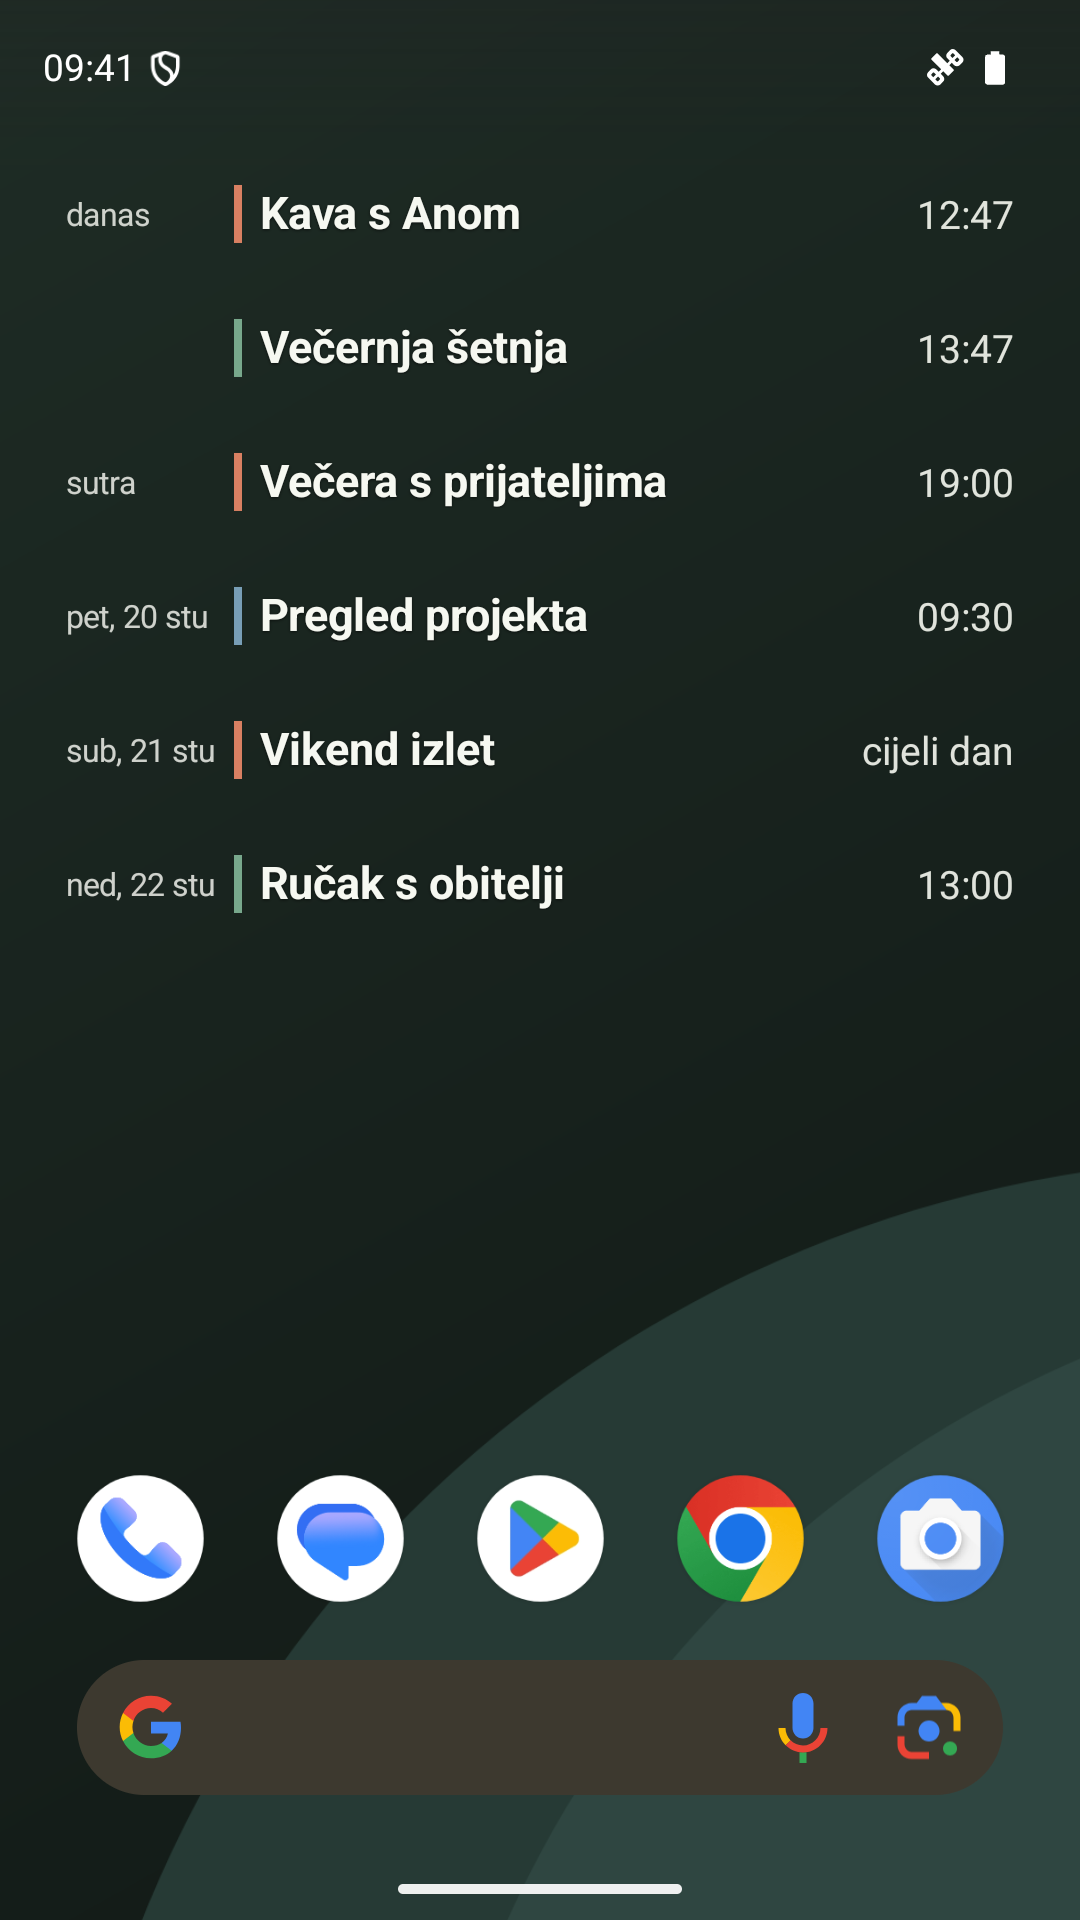
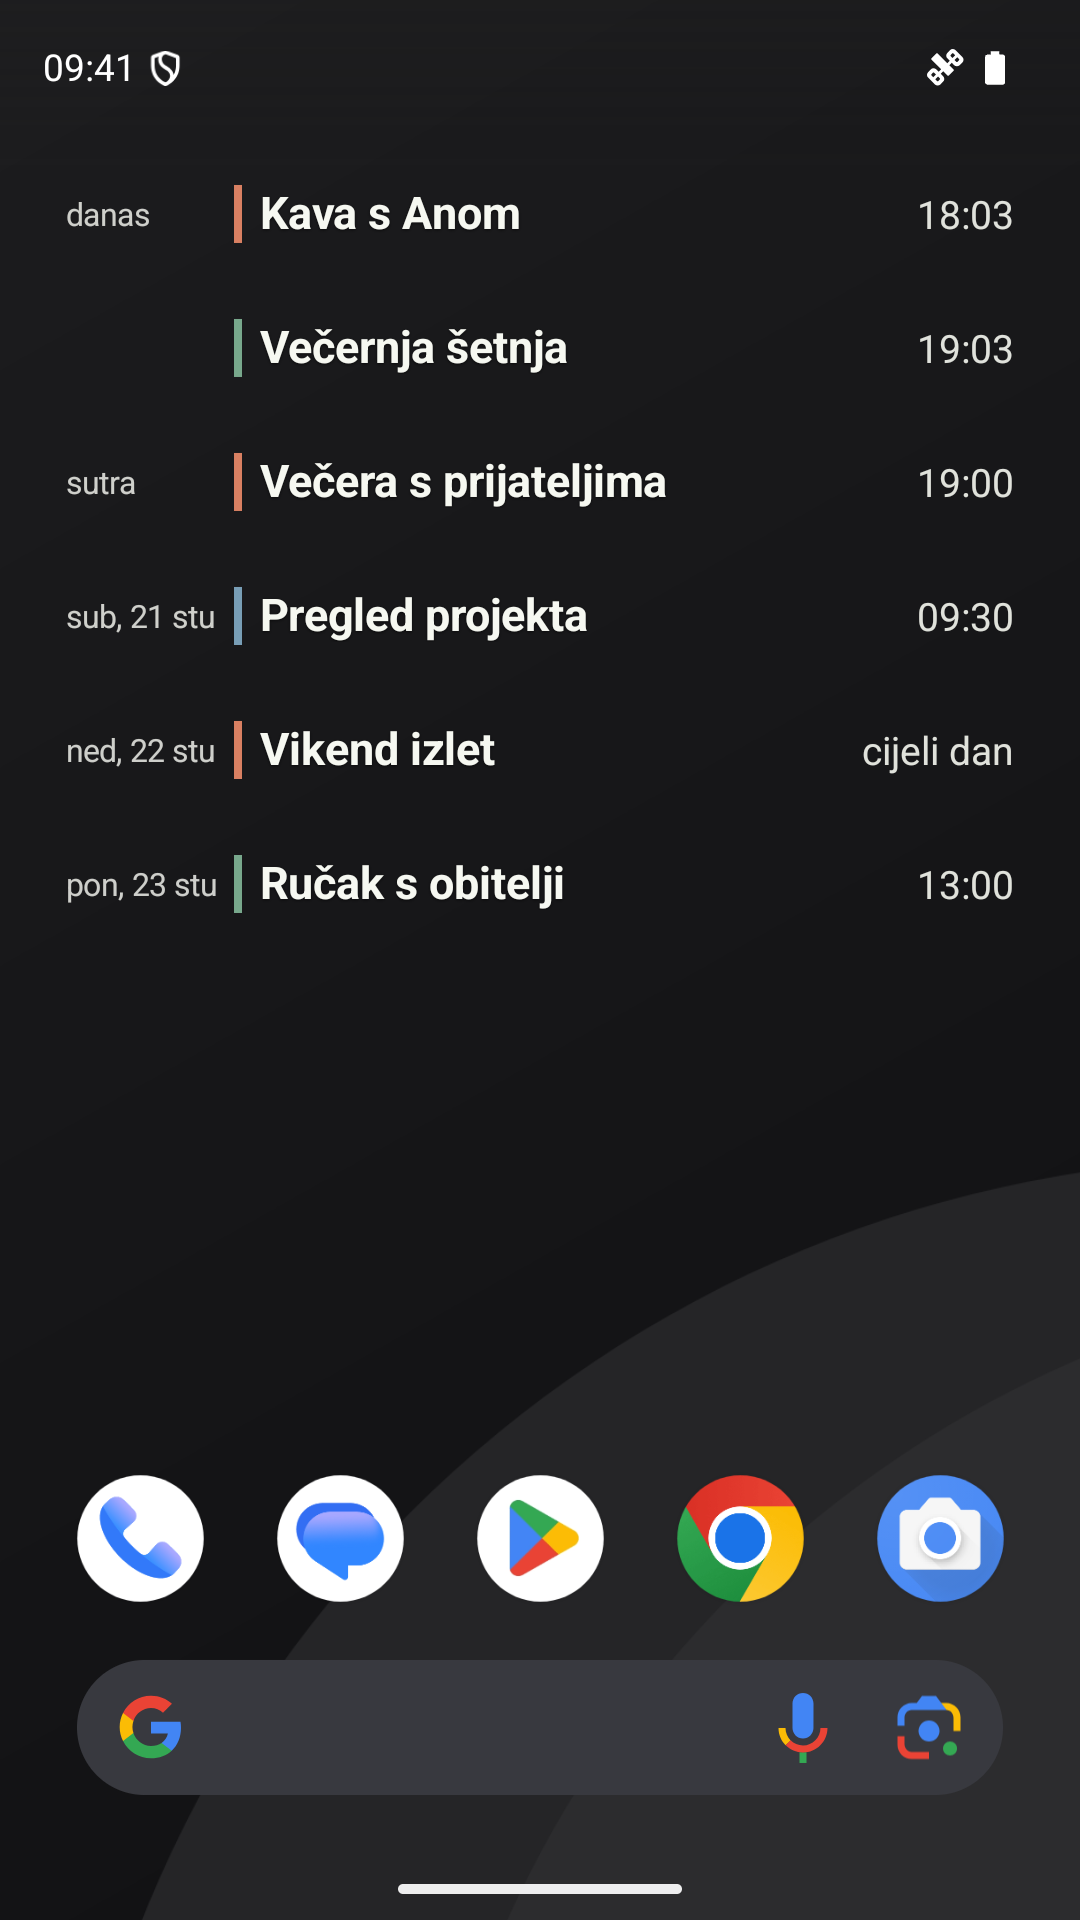
Use full-width mobile screenshots and refresh the Events widget captures (#30)
* Fill mobile homepage cards with their app screenshots

* Retake Events widget screenshots with neutral wallpapers

diff --git a/themes/m1h4/layouts/partials/app-card.html b/themes/m1h4/layouts/partials/app-card.html
@@ -6,6 +6,7 @@
             <p class="label">{{ with .Params.availabilitylabel }}{{ . }}{{ else }}{{ T $shared.Params.availability }}{{ end }}</p>
             <p>{{ .Params.carddescription | default .Description }}</p>
         </div>
-        <div class="card-art">{{ partial "theme-picture" (dict "page" . "sizes" "220px") }}</div>
+        {{/* The mobile grid fits two 300px cards starting at a viewport width of 674px. */}}
+        <div class="card-art">{{ partial "theme-picture" (dict "page" . "sizes" "(max-width: 673px) 92vw, (max-width: 700px) 45vw, 220px") }}</div>
     </a>
 </article>

diff --git a/themes/m1h4/static/css/main.css b/themes/m1h4/static/css/main.css
@@ -129,4 +129,6 @@ section + section { margin-top: var(--s4); }
     .language-switch { grid-column: 2; grid-row: 1; }
     .main { padding-block: var(--s3) var(--s4); }
     .page-header.has-shot, .app-list .app-link { grid-template-columns: minmax(0, 1fr); }
+    .card-art { display: block; padding: 0; }
+    .card-art img { width: 100%; height: auto; border: 0; border-radius: 0; }
 }
